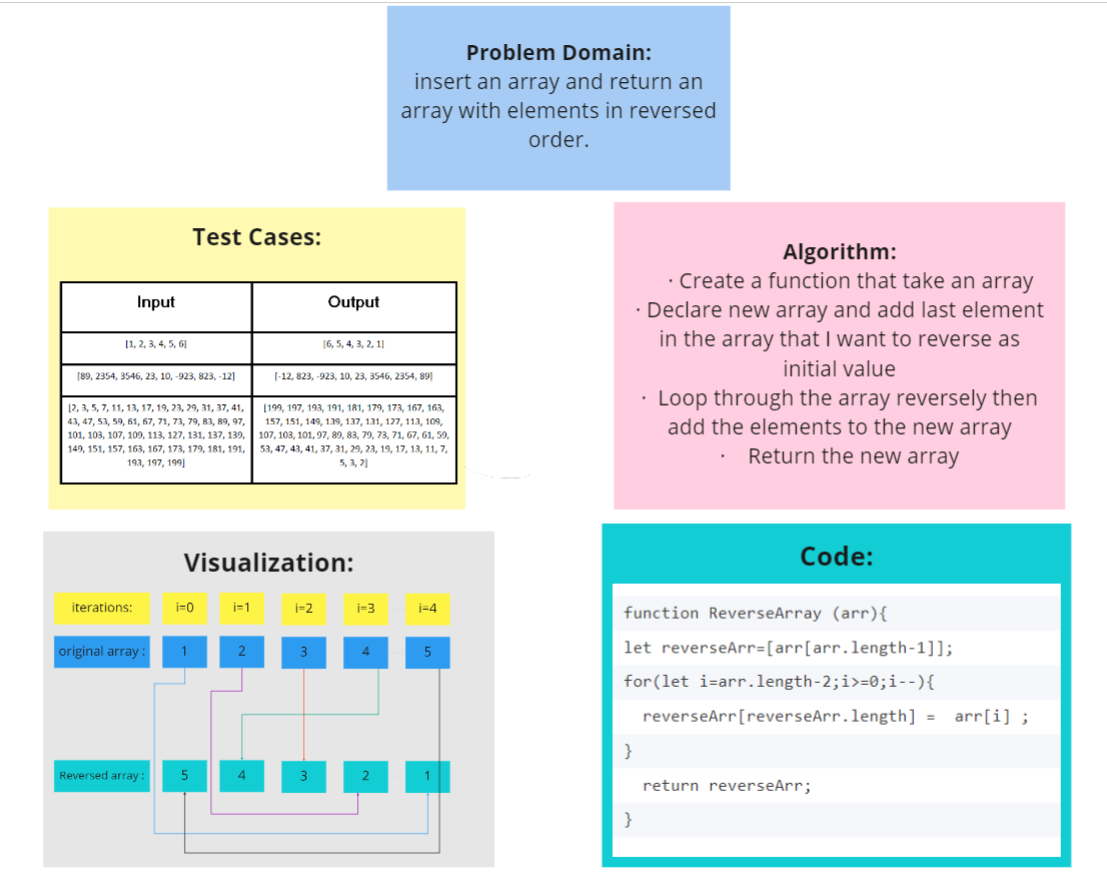
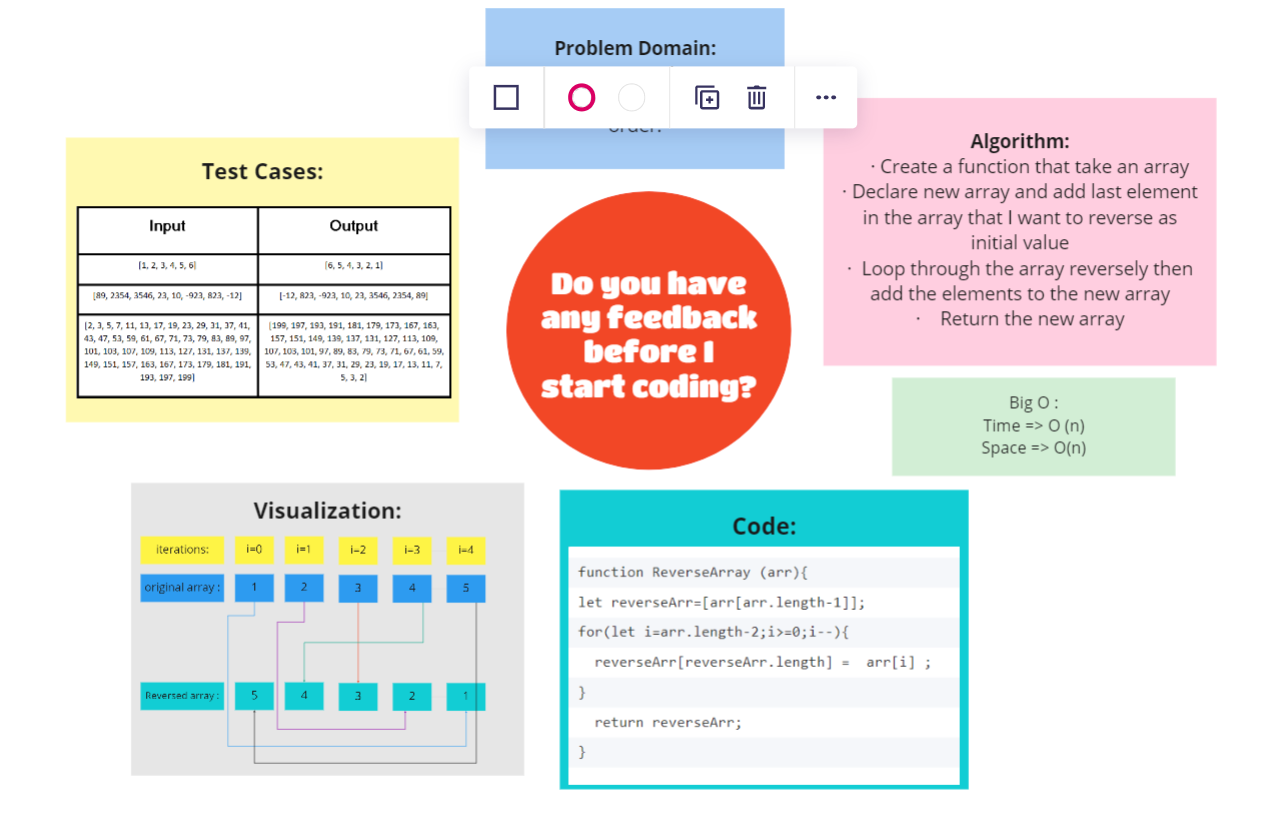
add whiteboard and update README file

diff --git a/Code_Challenges/code_challenge_01/README.md b/Code_Challenges/code_challenge_01/README.md
@@ -9,6 +9,14 @@ Write a function called reverseArray which takes an array as an argument. Withou
 
 ## Approach & Efficiency
 <!-- What approach did you take? Discuss Why. What is the Big O space/time for this approach? -->
+Big O :
+Time => O(n) because looping through n (length of array)
+Space => O(n) because we declared an array of size n
+
+
+
+
+ Below another approach that could be use to solve the problem  by using some bulid in methods that make the code easiar and shorter like unshif() and map() instead of for Loop
 
 ```
 function Reverse (arr){
